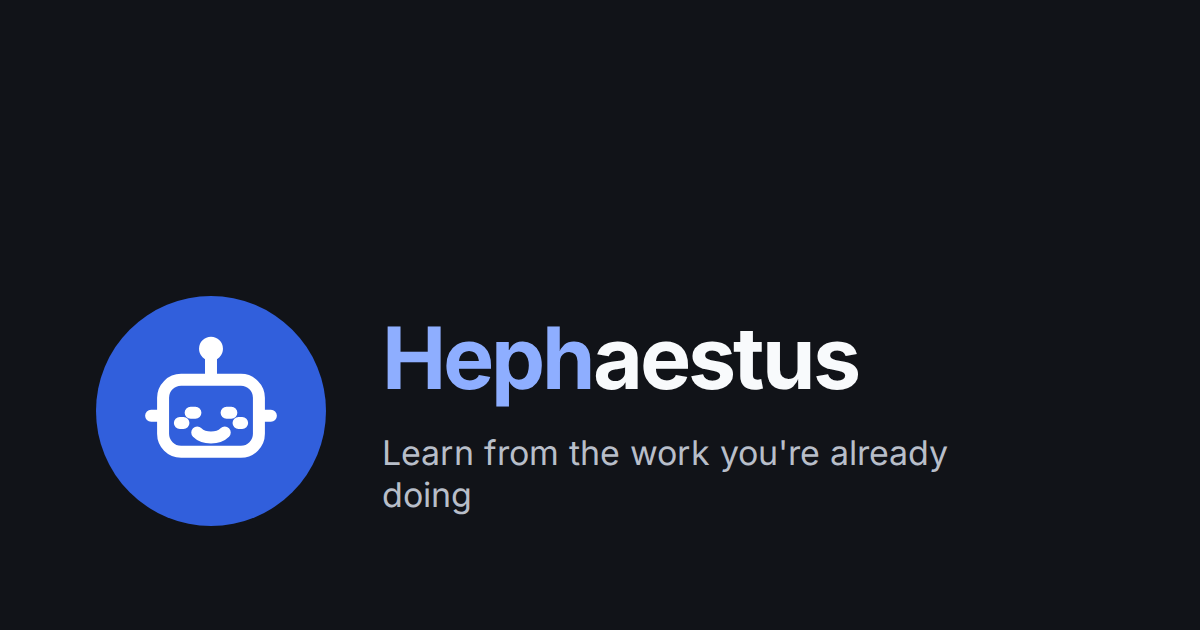
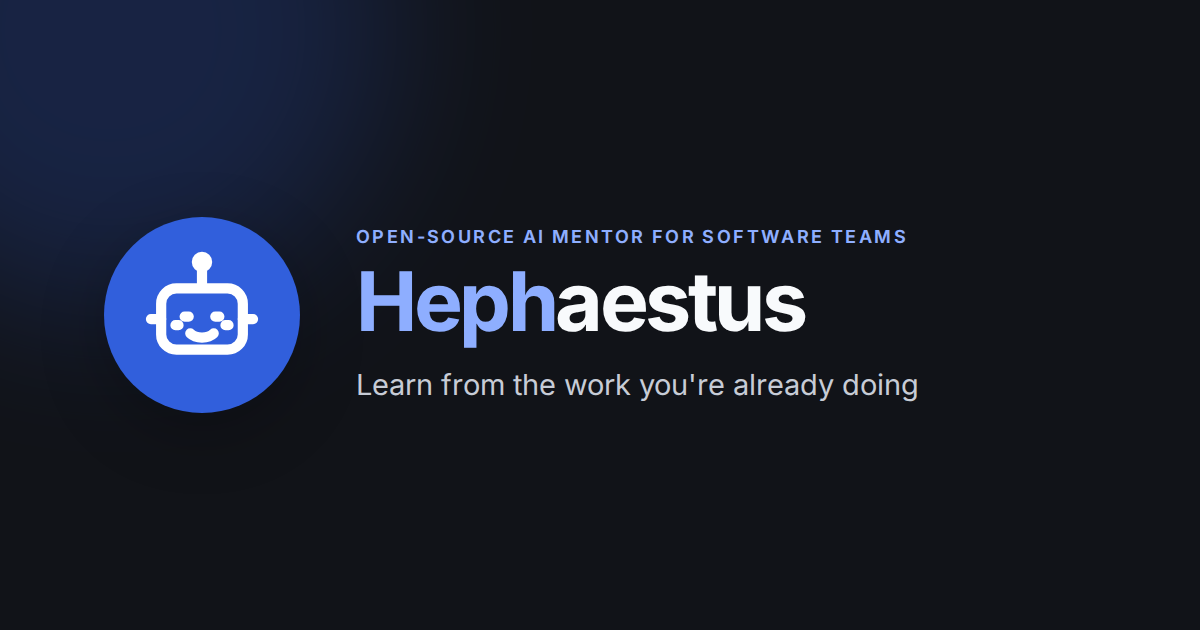
fix(webapp): polish Heph presentation

Changed region(s): [[0.0, 0.0, 0.7708, 0.8444], [0.3083, 0.6937, 0.8017, 0.8143], [0.2775, 0.3619, 0.7708, 0.3921]]

diff --git a/webapp/scripts/export-brand-assets.ts b/webapp/scripts/export-brand-assets.ts
@@ -113,23 +113,23 @@ try {
 	await captureLockup(resolve(docsBrandDirectory, "hephaestus-lockup-light.png"), false);
 	await captureLockup(resolve(docsBrandDirectory, "hephaestus-lockup-dark.png"), true);
 
-	await page.setViewportSize({ width: 1200, height: 630 });
-	await page.setContent(
-		`<style>${FONT_FACE}html,body{margin:0;width:100%;height:100%;font-family:Inter,sans-serif;background:${DARK_SURFACE};color:#f8fafc}.card{height:100%;display:flex;align-items:center;padding:96px;gap:56px}.mark{width:230px;height:230px}.name{font-size:86px;font-weight:700;letter-spacing:-3px}.heph{color:${DARK_ACCENT}}.tagline{margin-top:22px;font-size:34px;color:#b8bec9;max-width:650px;line-height:1.25}</style><main class="card"><div class="mark">${markSvg}</div><div><div class="name"><span class="heph">Heph</span>aestus</div><div class="tagline">Learn from the work you're already doing</div></div></main>`,
-	);
-	await page.evaluate(() => document.fonts.ready);
-	const socialCard = resolve(docsImageDirectory, "hephaestus-social-card.png");
-	await page.screenshot({ path: socialCard });
-	await copyFile(socialCard, resolve(publicDirectory, "hephaestus-social-card.png"));
+	const captureSocialCard = async (width: number, height: number, path: string): Promise<void> => {
+		await page.setViewportSize({ width, height });
+		await page.setContent(
+			`<style>${FONT_FACE}*{box-sizing:border-box}html,body{margin:0;width:100%;height:100%;font-family:Inter,sans-serif;background:${DARK_SURFACE};color:#f8fafc}.card{position:relative;isolation:isolate;height:100%;display:flex;align-items:center;padding:0 104px;gap:56px;overflow:hidden}.card::before{content:"";position:absolute;z-index:-1;width:560px;height:560px;left:-170px;top:-250px;border-radius:50%;background:#315fdc;opacity:.22;filter:blur(80px)}.mark{width:196px;height:196px;flex:none;filter:drop-shadow(0 18px 32px rgb(0 0 0/.24))}.eyebrow{font-size:18px;font-weight:650;letter-spacing:2.4px;text-transform:uppercase;color:${DARK_ACCENT}}.name{margin-top:14px;font-size:82px;font-weight:720;letter-spacing:-3.5px;line-height:1}.heph{color:${DARK_ACCENT}}.tagline{margin-top:24px;font-size:29px;color:#c7ccd6;line-height:1.25;white-space:nowrap}</style><main class="card"><div class="mark">${markSvg}</div><div><div class="eyebrow">Open-source AI mentor for software teams</div><div class="name"><span class="heph">Heph</span>aestus</div><div class="tagline">Learn from the work you're already doing</div></div></main>`,
+		);
+		await page.evaluate(() => document.fonts.ready);
+		await page.screenshot({ path });
+	};
 
-	await page.setViewportSize({ width: 1280, height: 640 });
-	await page.setContent(
-		`<style>${FONT_FACE}html,body{margin:0;width:100%;height:100%;font-family:Inter,sans-serif;background:${DARK_SURFACE};color:#f8fafc}.card{height:100%;display:flex;align-items:center;padding:96px 112px;gap:56px}.mark{width:230px;height:230px}.name{font-size:86px;font-weight:700;letter-spacing:-3px}.heph{color:${DARK_ACCENT}}.tagline{margin-top:22px;font-size:34px;color:#b8bec9;max-width:650px;line-height:1.25}</style><main class="card"><div class="mark">${markSvg}</div><div><div class="name"><span class="heph">Heph</span>aestus</div><div class="tagline">Learn from the work you're already doing</div></div></main>`,
+	const socialCard = resolve(docsImageDirectory, "hephaestus-social-card.png");
+	await captureSocialCard(1200, 630, socialCard);
+	await copyFile(socialCard, resolve(publicDirectory, "hephaestus-social-card.png"));
+	await captureSocialCard(
+		1280,
+		640,
+		resolve(docsBrandDirectory, "github-repository-social-preview-1280x640.png"),
 	);
-	await page.evaluate(() => document.fonts.ready);
-	await page.screenshot({
-		path: resolve(docsBrandDirectory, "github-repository-social-preview-1280x640.png"),
-	});
 
 	await exportReadmeImages(browser);
 } finally {

diff --git a/webapp/src/components/brand/HephIcon.stories.tsx b/webapp/src/components/brand/HephIcon.stories.tsx
@@ -24,6 +24,19 @@ export const Streaming: Story = { args: { streaming: true } };
 
 export const Static: Story = { args: { animated: false } };
 
+export const LightAndDark: Story = {
+	render: () => (
+		<div className="grid overflow-hidden rounded-2xl border sm:grid-cols-2">
+			<div className="flex size-48 items-center justify-center bg-white text-[#596174]">
+				<HephIcon size={112} pad={4} animated={false} />
+			</div>
+			<div className="dark flex size-48 items-center justify-center bg-[#111318] text-[#aab4ca]">
+				<HephIcon size={112} pad={4} animated={false} />
+			</div>
+		</div>
+	),
+};
+
 export const Informative: Story = {
 	args: { label: "Heph, AI mentor" },
 	play: async ({ canvas }) => {

diff --git a/webapp/src/components/brand/HephIcon.module.css b/webapp/src/components/brand/HephIcon.module.css
@@ -1,6 +1,6 @@
 .icon {
-	--mentor-shadow-opacity: 0.08;
-	--mentor-blush-opacity: 0.25;
+	--mentor-shadow-opacity: 0.16;
+	--mentor-blush-opacity: 0.12;
 }
 
 .shadow {
@@ -29,8 +29,8 @@
 }
 
 :global(.dark) .icon {
-	--mentor-shadow-opacity: 0.15;
-	--mentor-blush-opacity: 0.2;
+	--mentor-shadow-opacity: 0.2;
+	--mentor-blush-opacity: 0.1;
 }
 
 @media (prefers-reduced-motion: no-preference) {
